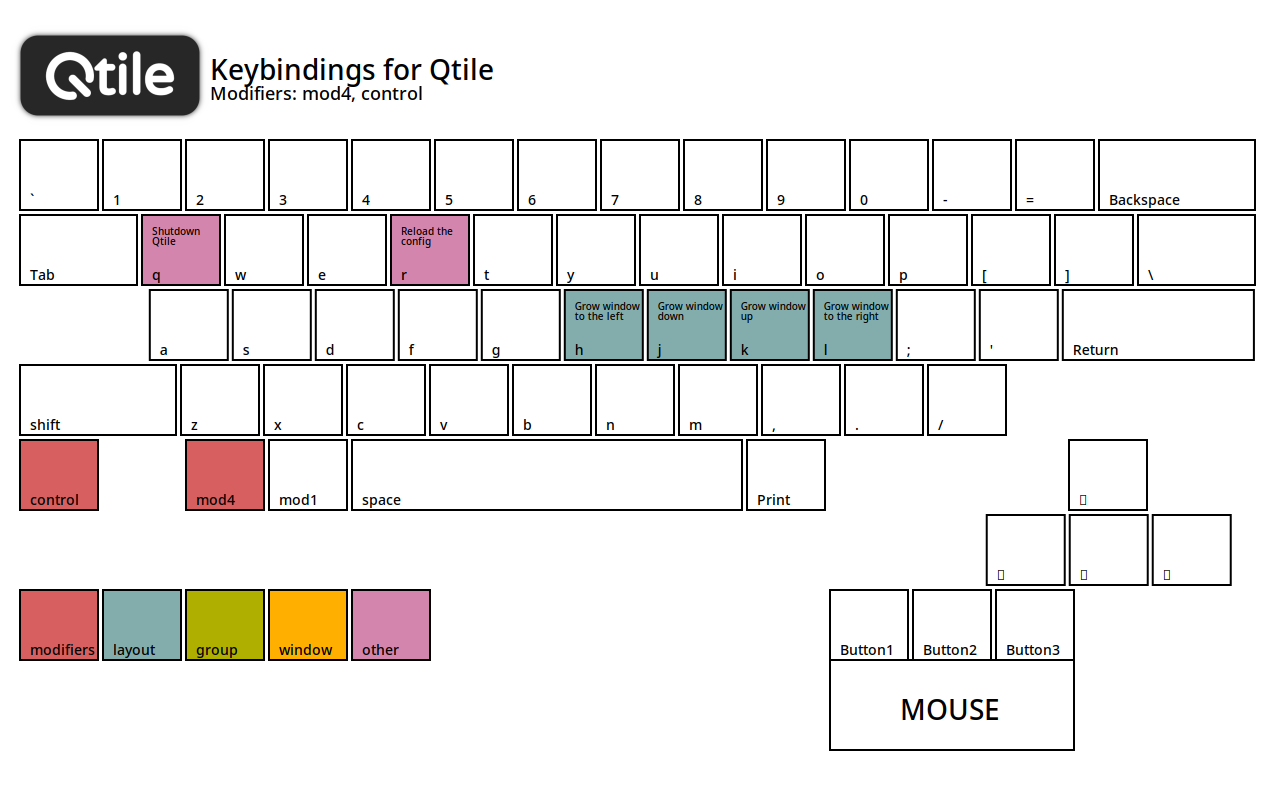
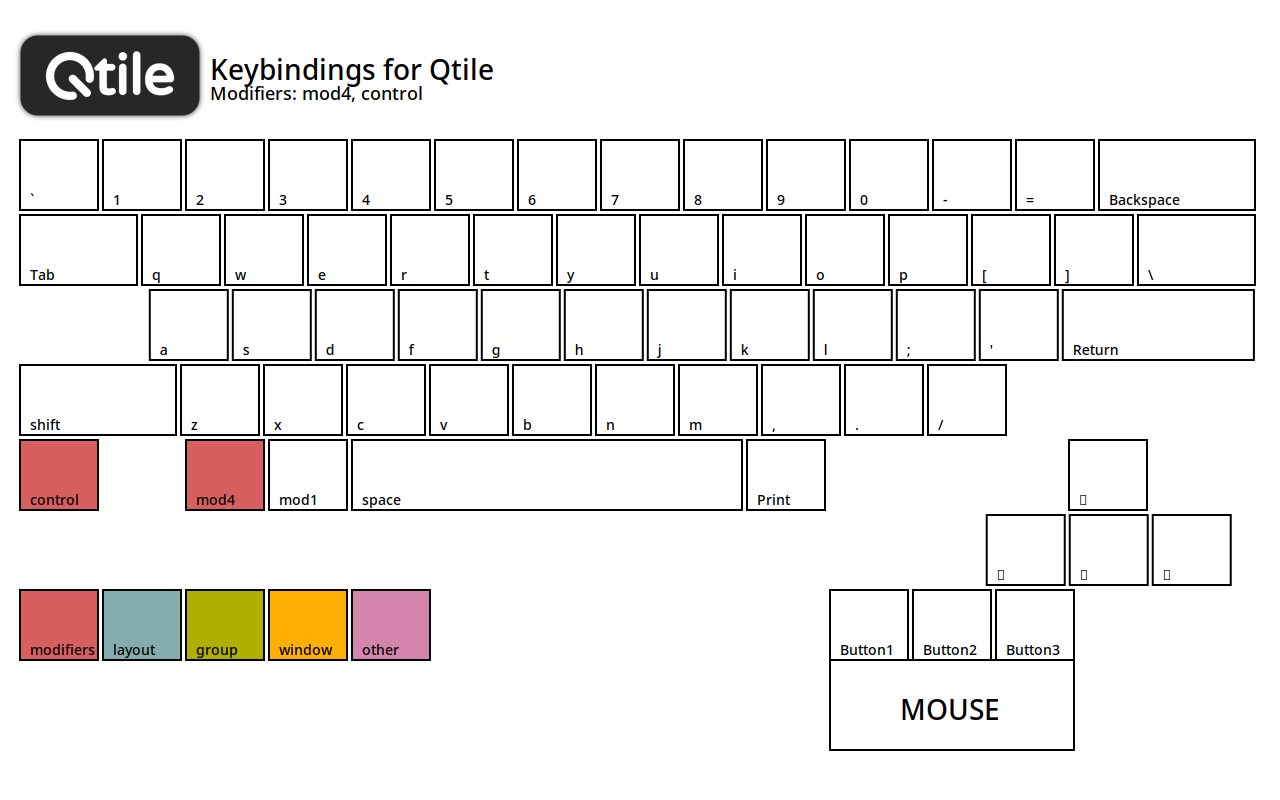
fix keybinding mapping images

Changed region(s): [[0.4375, 0.3438, 0.7188, 0.4688], [0.0938, 0.25, 0.1875, 0.375], [0.2812, 0.25, 0.375, 0.375]]

diff --git a/config/qtile/src/util/widgets.py b/config/qtile/src/util/widgets.py
@@ -33,6 +33,7 @@ class WidgetsMaker:
         self.widgets_settings: WidgetsSettings = widgets_settings
         self.apps: Apps = apps
         self._create_settings()
+        compositor: str = "x11" if qtile is None else qtile.core.name
         self.main_widgets = [
             widget.Spacer(**self._spacer),
             widget.TextBox(**self._launcher),
@@ -46,7 +47,7 @@ class WidgetsMaker:
             widget.Spacer(**self._spacer_stretch),
             # XXX: Systray does not support Wayland
             widget.Systray(**self._systray)
-            if qtile.core.name == "x11"
+            if compositor == "x11"
             else widget.Spacer(**self._none),
             widget.Spacer(**self._spacer),
             widget.Volume(**self._volume),

diff --git a/config/qtile/src/util/apps.py b/config/qtile/src/util/apps.py
@@ -8,8 +8,9 @@ class Apps:
 
     def __init__(self, settings: dict) -> None:
         assert "apps" in settings
-        assert qtile.core.name in settings["apps"]
-        self.settings: dict = settings["apps"][qtile.core.name]
+        compositor: str = "x11" if qtile is None else qtile.core.name
+        assert compositor in settings["apps"]
+        self.settings: dict = settings["apps"][compositor]
 
     def kill_window(self) -> None:
         """Kills the focused window."""

diff --git a/config/qtile/README.md b/config/qtile/README.md
@@ -9,6 +9,10 @@ See `pkglist.txt`. (TODO)
 
 ## Keybindings
 
+### No modifier
+
+![no mod bindings](./no_modifier.png "No modifier bindings")
+
 ### Mod4
 
 ![mod4 bindings](./mod4.png "Mod4 bindings")
